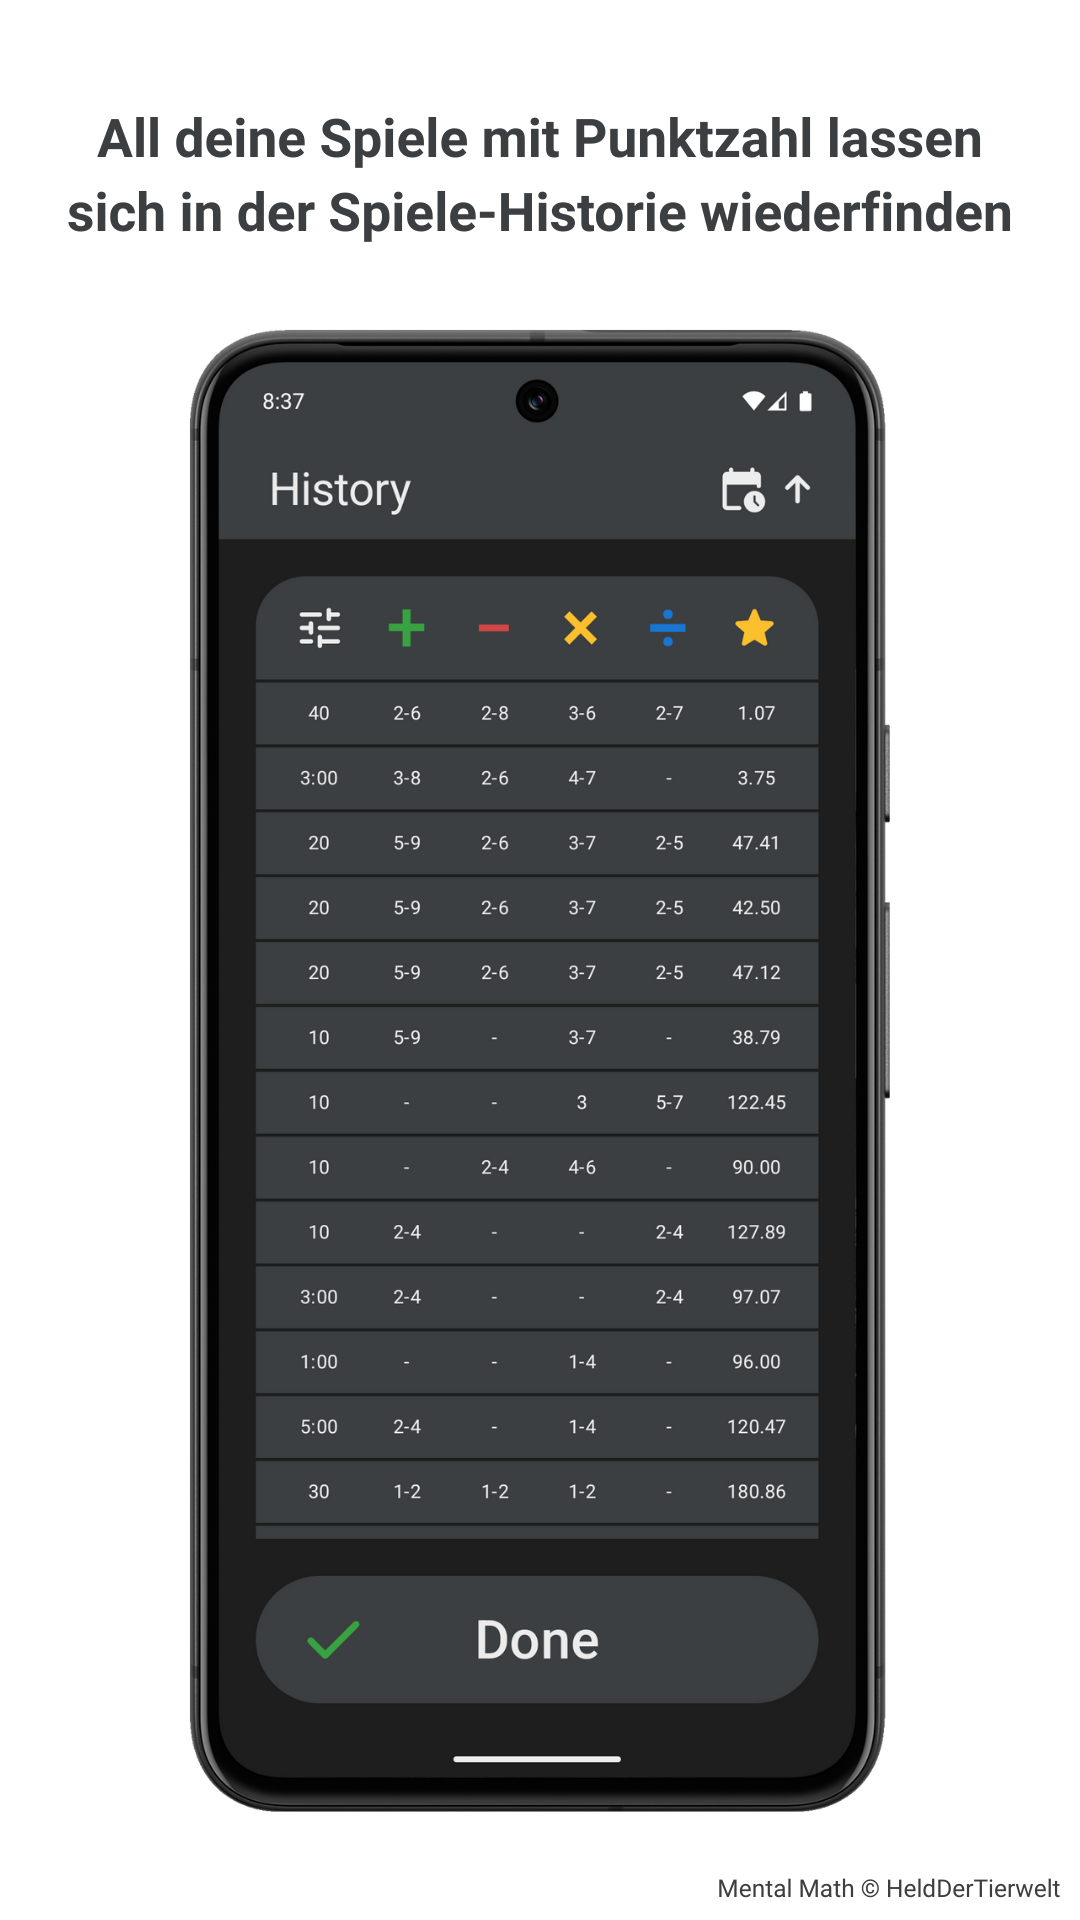
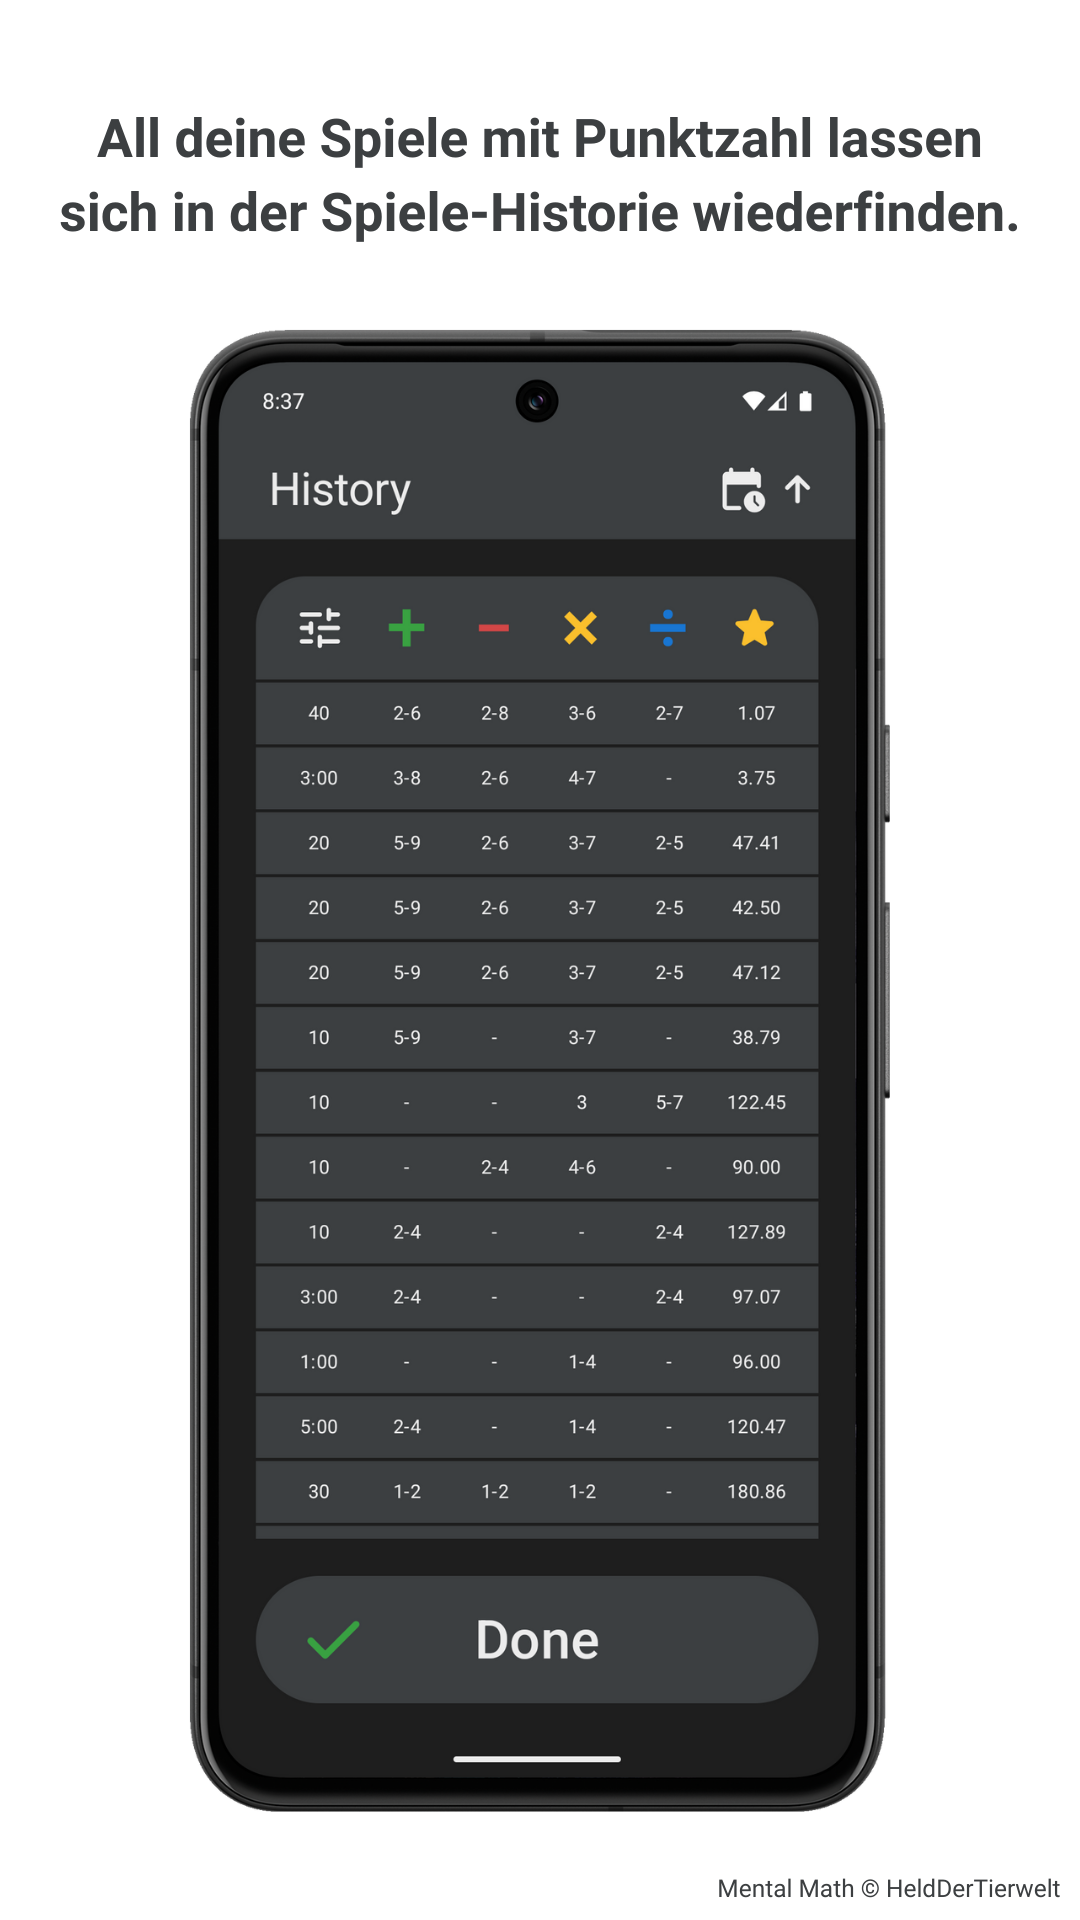
- new screenshots for de - corrected shortDescription for de - improved featureGraphic - build.gradle.kts will build the app unsigned if no keys are provided

Changed region(s): [[0.0611, 0.0938, 0.9472, 0.125]]

diff --git a/README.md b/README.md
@@ -9,13 +9,13 @@
 
 <p align="center">
   <a href="https://f-droid.org/packages/com.helddertierwelt.mentalmath/">
-    <img src="./media/badges/fdroid-badge.png" alt="Get it on F-Droid" height="80">
+    <img src="fastlane/metadata/android/en-US/images/badges/fdroid-badge.png" alt="Get it on F-Droid" height="80">
   </a>
   <a href="https://play.google.com/store/apps/details?id=com.helddertierwelt.mentalmath">
-    <img src="./media/badges/google-play-badge.png" alt="Get it on Google Play" height="80">
+    <img src="fastlane/metadata/android/en-US/images/badges/google-play-badge.png" alt="Get it on Google Play" height="80">
   </a>
   <a href="https://codeberg.org/Mental-Math/MentalMath/releases">
-    <img src="./media/badges/codeberg-badge.png" alt="Get it on Codeberg" height="80">
+    <img src="fastlane/metadata/android/en-US/images/badges/codeberg-badge.png" alt="Get it on Codeberg" height="80">
   </a>
 </p>
 
@@ -85,5 +85,5 @@ mental_math_app@pm.me
 
 <p align="center">
   <br>
-  <img src="./media/app icon/Mental Math Transparent.svg" alt="Mental Math Icon" width="200">
+  <img src="fastlane/metadata/android/en-US/images/icon_transparent.svg" alt="Mental Math Icon" width="200">
 </p>
